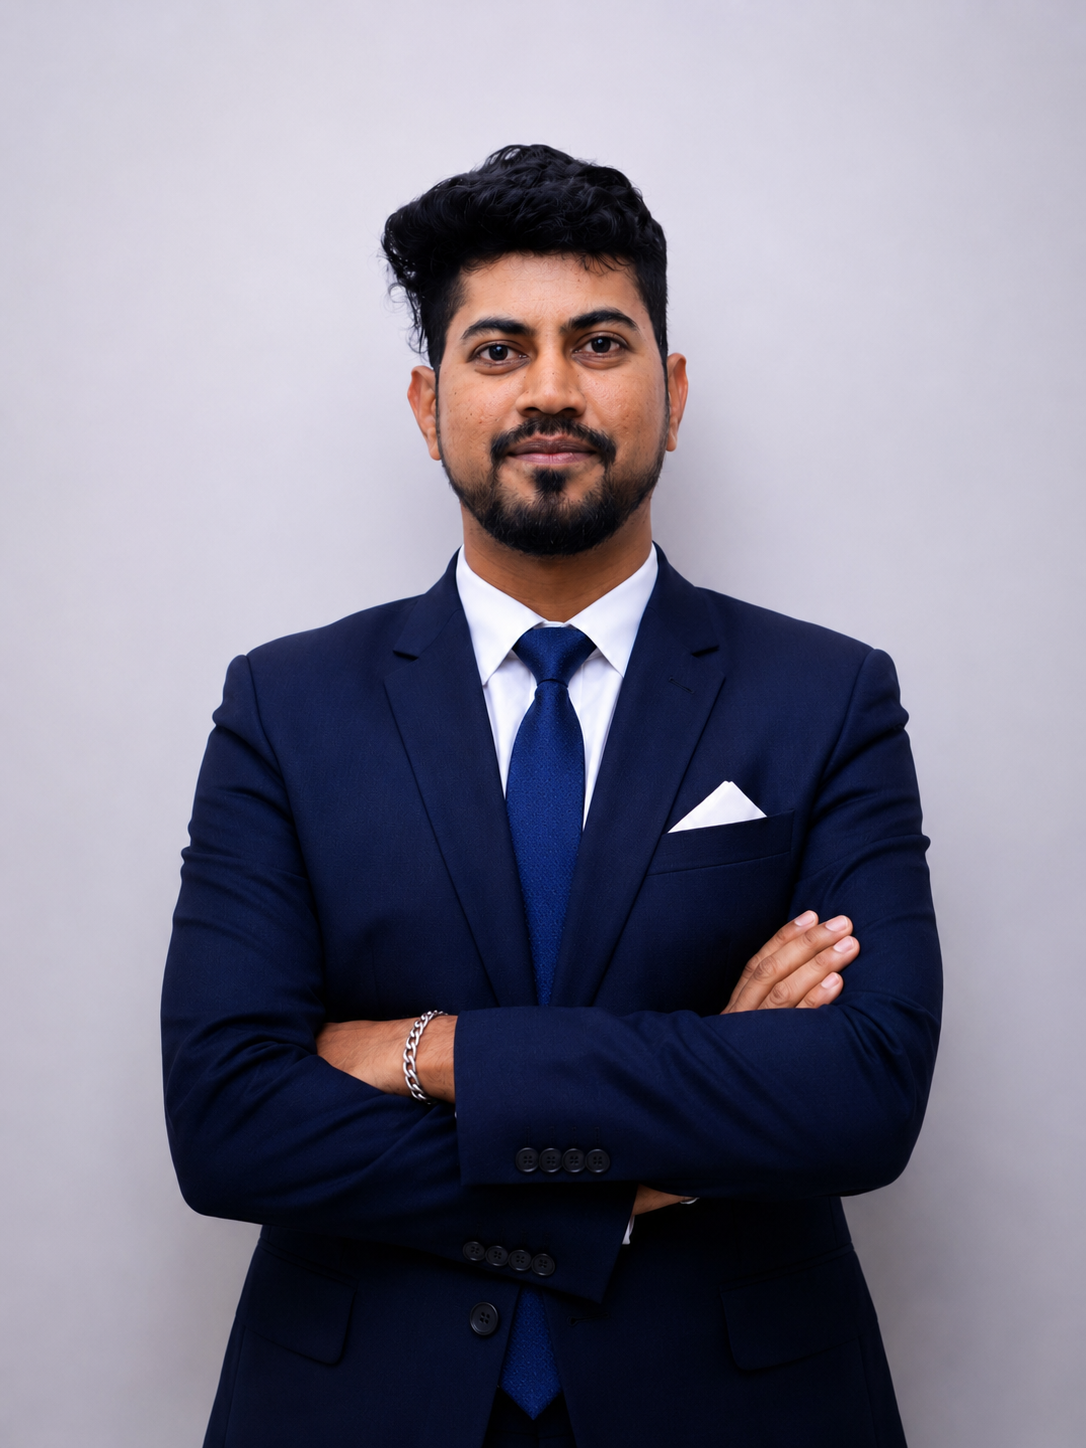
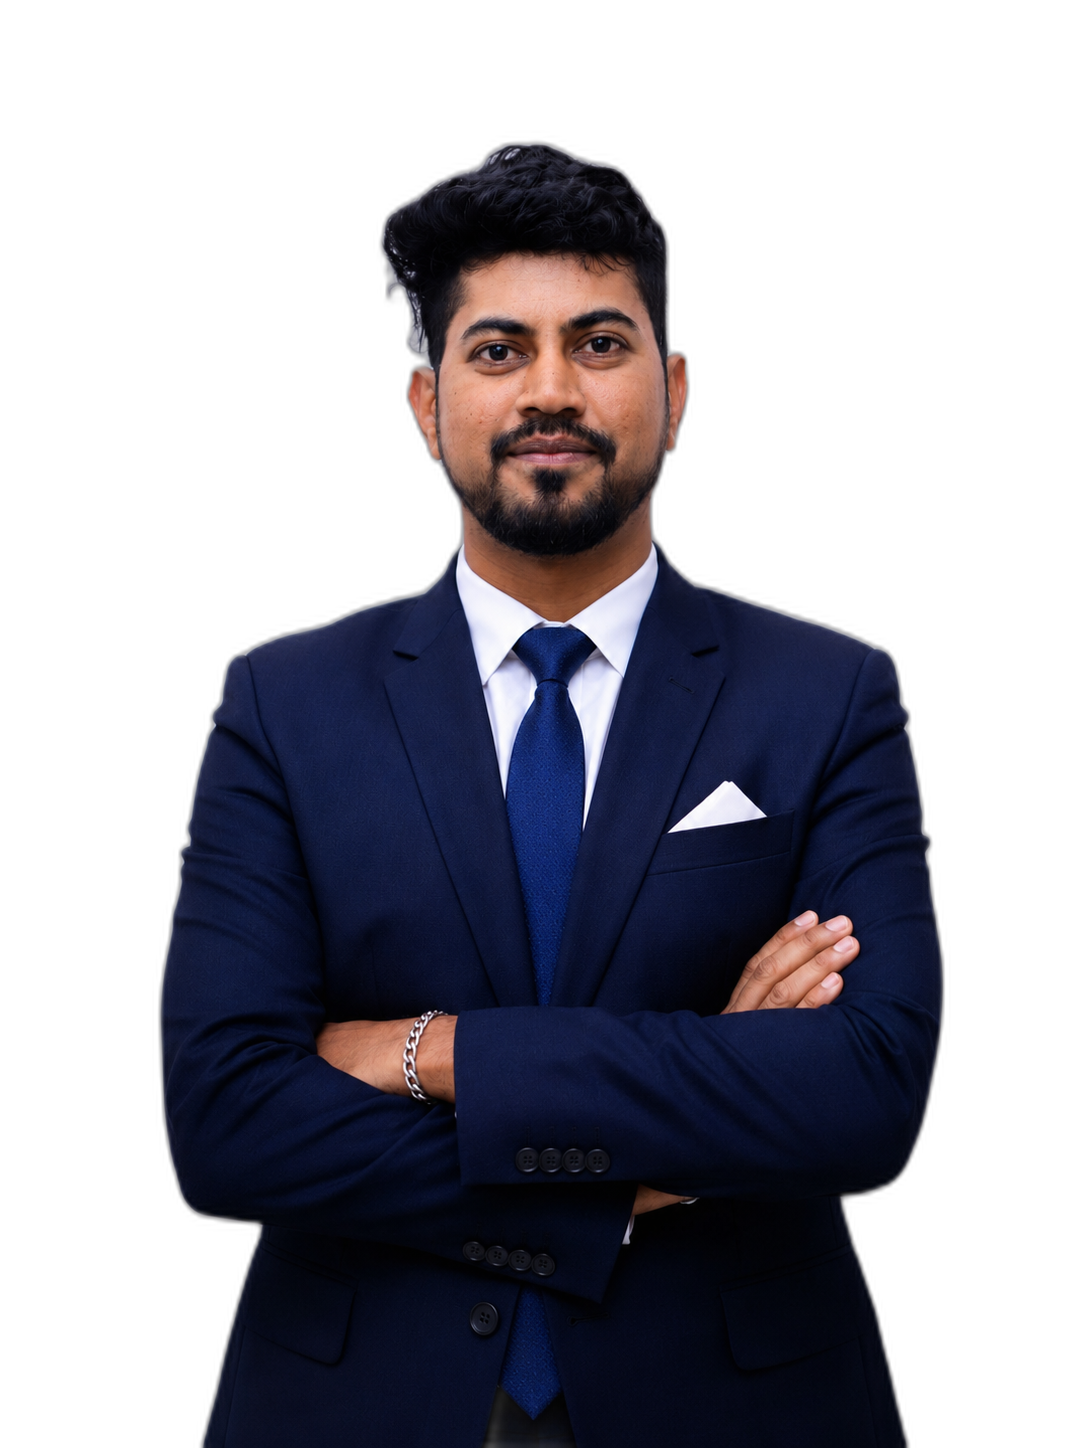
Fix Leadership

diff --git a/leadership.html b/leadership.html
@@ -383,17 +383,17 @@ footer { background: var(--secondary-bg); border-top: 1px solid var(--border-col
       <div class="member-card">
         <div class="member-photo"><img src="Photos/Mrunal%20Solanki.png" alt="Mrunal Solanki"></div>
         <div class="member-name">Mrunal Solanki</div>
-        <div class="member-role">Director at DiligenceOS Global Pvt. Ltd.</div>
+        <div class="member-role">Director</div>
       </div>
       <div class="member-card">
-        <div class="member-photo"><img src="Photos/Debanshu%20Bandhopadhyay.png" alt="Debanshu Bandhopadhyay"></div>
-        <div class="member-name">Debanshu Bandhopadhyay</div>
-        <div class="member-role">Advisor at DiligenceOS Global Pvt. Ltd.</div>
+        <div class="member-photo"><img src="Photos/Debanshu%20Banerjee.png" alt="Debanshu Banerjee"></div>
+        <div class="member-name">Debanshu Banerjee</div>
+        <div class="member-role">Strategic Advisor</div>
       </div>
       <div class="member-card">
         <div class="member-photo"><img src="Photos/CA%20Gaurav%20Nahta.png" alt="CA Gaurav Nahta"></div>
         <div class="member-name">CA Gaurav Nahta</div>
-        <div class="member-role">Partner at DiligenceOS Global Pvt. Ltd.</div>
+        <div class="member-role">Partner</div>
       </div>
     </div>
   </div>
@@ -408,27 +408,27 @@ footer { background: var(--secondary-bg); border-top: 1px solid var(--border-col
       <div class="member-card">
         <div class="member-photo"><img src="Photos/Pradeep%20Parekh.jpeg" alt="Pradeep Parekh"></div>
         <div class="member-name">Pradeep Parekh</div>
-        <div class="member-role">VP - Business Growth & Partnerships</div>
+        <div class="member-role">VP, Growth &amp; Partnerships</div>
       </div>
       <div class="member-card">
         <div class="member-photo"><i class="fas fa-user"></i></div>
         <div class="member-name">Ojas Panchasara</div>
-        <div class="member-role">Lead Sales Manager</div>
+        <div class="member-role">Sales Manager</div>
       </div>
       <div class="member-card">
         <div class="member-photo"><img src="Photos/Ankit%20Bamroliya.png" alt="Ankit Bamroliya"></div>
         <div class="member-name">Ankit Bamroliya</div>
-        <div class="member-role">B2B Sales Specialist for CPA &amp; EA Firms | Lead Generation → Closing → Retention | Ex-B2C Closer (Legal Leads) | Driving Revenue Growth</div>
+        <div class="member-role">B2B Sales Specialist, CPA &amp; EA Firms</div>
       </div>
       <div class="member-card">
         <div class="member-photo"><img src="Photos/Avani%20Jani.png" alt="Avani Jani"></div>
         <div class="member-name">Avani Jani</div>
-        <div class="member-role">Business Development Executive | Outbound Lead Generation</div>
+        <div class="member-role">Business Development Executive</div>
       </div>
       <div class="member-card">
         <div class="member-photo"><img src="Photos/Jhanvi%20Pandya.png" alt="Jhanvi Pandya"></div>
         <div class="member-name">Jhanvi Pandya</div>
-        <div class="member-role">Human Resource</div>
+        <div class="member-role">Human Resources</div>
       </div>
     </div>
   </div>
@@ -443,27 +443,27 @@ footer { background: var(--secondary-bg); border-top: 1px solid var(--border-col
       <div class="member-card">
         <div class="member-photo"><img src="Photos/Nauka%20Dholariya.jpeg" alt="Nauka Dholariya"></div>
         <div class="member-name">Nauka Dholariya</div>
-        <div class="member-role">Assistant Manager | US Accountant &amp; Tax Preparer | Payroll Accounting | Sales Tax | Finalising Accounting Reports</div>
+        <div class="member-role">Assistant Manager, US Accounting &amp; Tax</div>
       </div>
-      <div class="member-card" data-face="right">
-        <div class="member-photo"><img src="Photos/Ajay%20Makwana.png" alt="Ajay Makwana"></div>
+      <div class="member-card" data-photo="soft">
+        <div class="member-photo"><img src="Photos/Ajay%20Makwana.png" alt="Ajay Makwana" style="object-position: center 8%; transform: scale(1.55); transform-origin: center 26%;"></div>
         <div class="member-name">Ajay Makwana</div>
-        <div class="member-role">US Tax Preparer | Individual and Business Returns</div>
+        <div class="member-role">US Tax Preparer, Individual &amp; Business Returns</div>
       </div>
       <div class="member-card" data-photo="soft">
         <div class="member-photo"><img src="Photos/Ramsha%20Mirza.png" alt="Ramsha Mirza" style="object-position: center 25%;"></div>
         <div class="member-name">Ramsha Mirza</div>
-        <div class="member-role">US Tax Preparer | Individual and Business Returns</div>
+        <div class="member-role">US Tax Preparer, Individual &amp; Business Returns</div>
       </div>
       <div class="member-card" data-photo="original">
         <div class="member-photo"><img src="Photos/Pujan%20Soni.png" alt="Pujan Soni"></div>
         <div class="member-name">Pujan Soni</div>
-        <div class="member-role">Accounting Associate | US Accountant | Financial Analysis | Payroll Processing | Sales Tax | Bookkeeping</div>
+        <div class="member-role">Accounting Associate, US Accounting &amp; Payroll</div>
       </div>
       <div class="member-card" data-photo="original">
         <div class="member-photo"><img src="Photos/Vishal%20Shah.png" alt="Vishal Shah"></div>
         <div class="member-name">Vishal Shah</div>
-        <div class="member-role">Accounting Executive (AU F&amp;A)</div>
+        <div class="member-role">Accounting Executive, AU Finance &amp; Accounts</div>
       </div>
       <div class="member-card" data-photo="soft" data-anchor="high">
         <div class="member-photo"><img src="Photos/Jayesh%20Makwana.png" alt="Jayesh Makwana"></div>
@@ -473,12 +473,12 @@ footer { background: var(--secondary-bg); border-top: 1px solid var(--border-col
       <div class="member-card" data-photo="in">
         <div class="member-photo"><img src="Photos/Shaikh%20Abdul%20Altaf.png" alt="Shaikh Abdul Altaf"></div>
         <div class="member-name">Shaikh Abdul Altaf</div>
-        <div class="member-role">US Accounting Executive | Payroll Processing | Sales Tax | Bookkeeping &amp; Financial Reporting</div>
+        <div class="member-role">US Accounting Executive, Payroll &amp; Reporting</div>
       </div>
       <div class="member-card" data-photo="soft" data-anchor="out">
         <div class="member-photo"><img src="Photos/Sahil%20Atar.png" alt="Sahil Atar"></div>
         <div class="member-name">Sahil Atar</div>
-        <div class="member-role">Senior Tax Preparer and Reviewer</div>
+        <div class="member-role">Senior Tax Preparer &amp; Reviewer</div>
       </div>
     </div>
   </div>